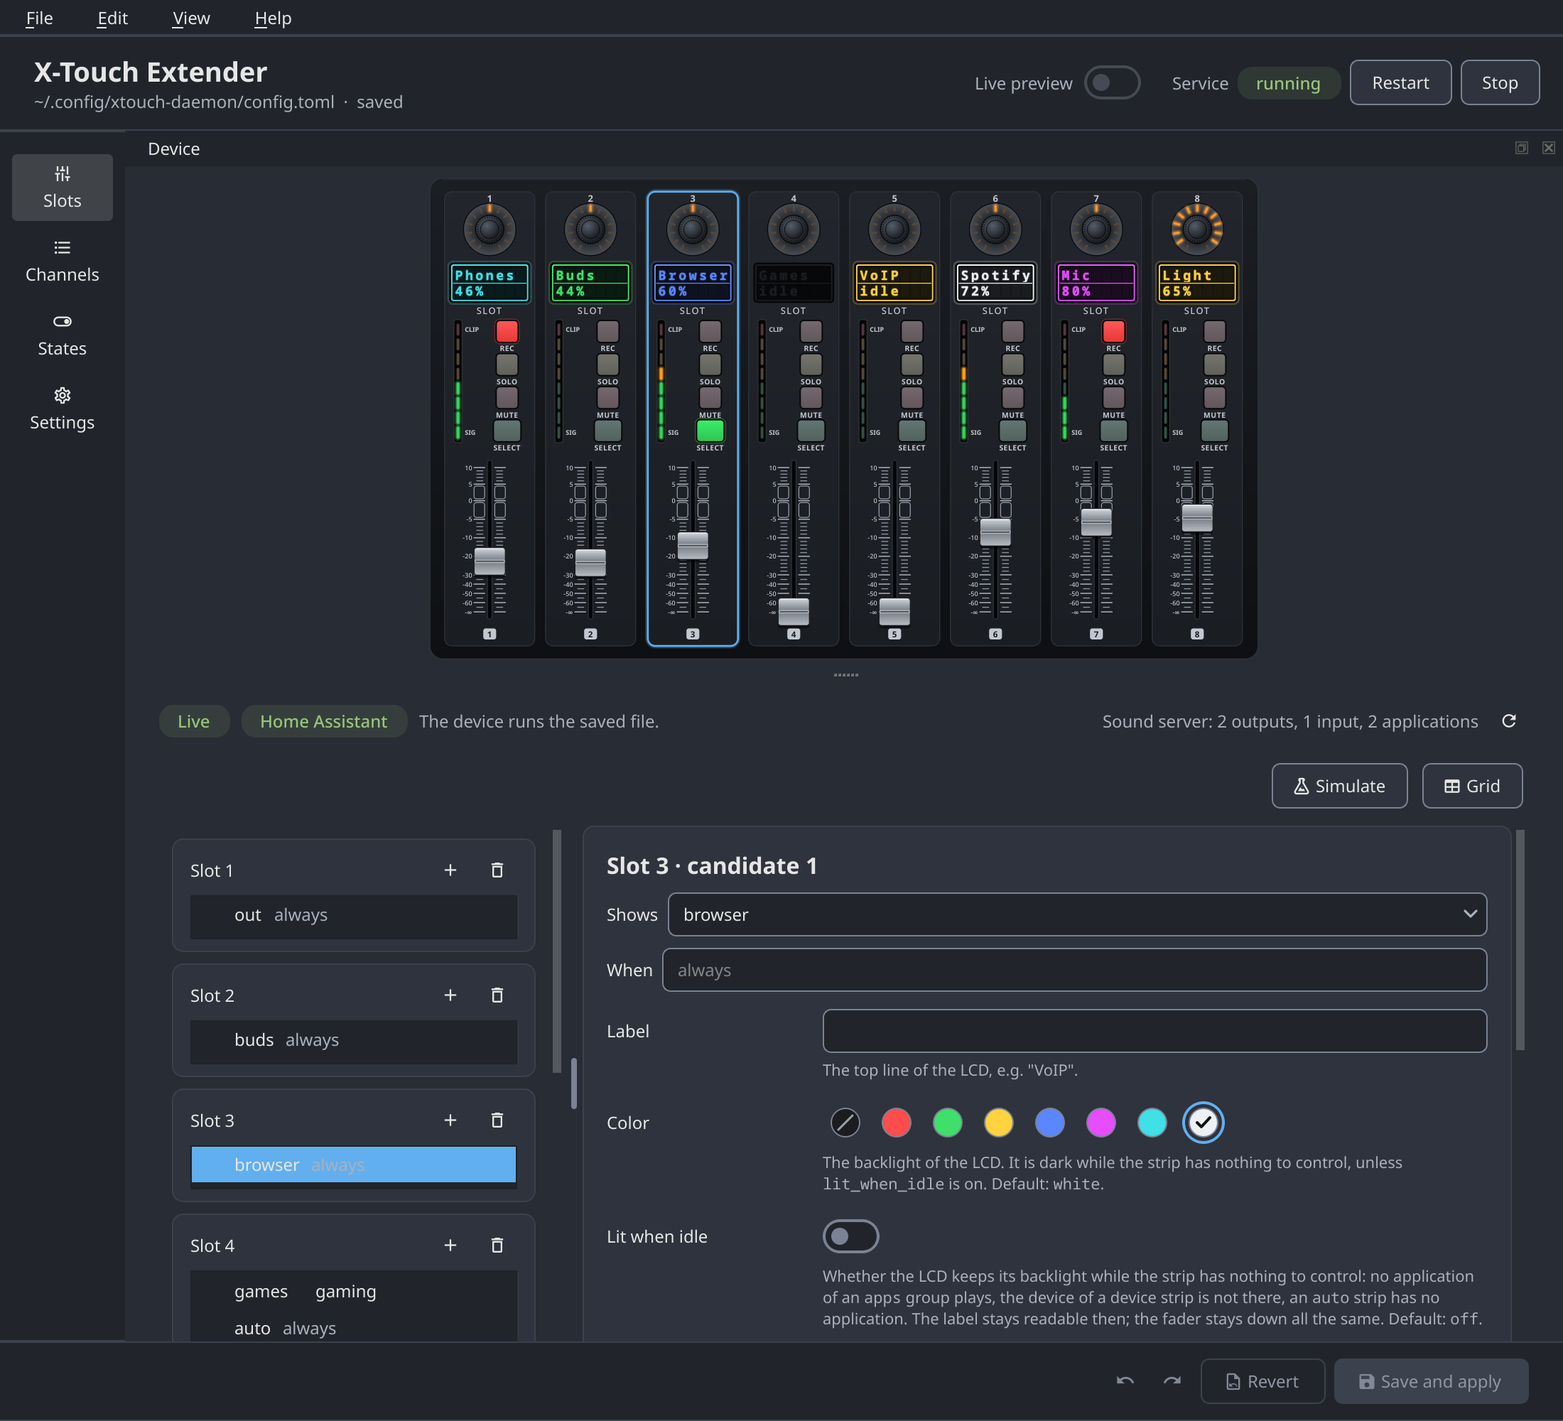
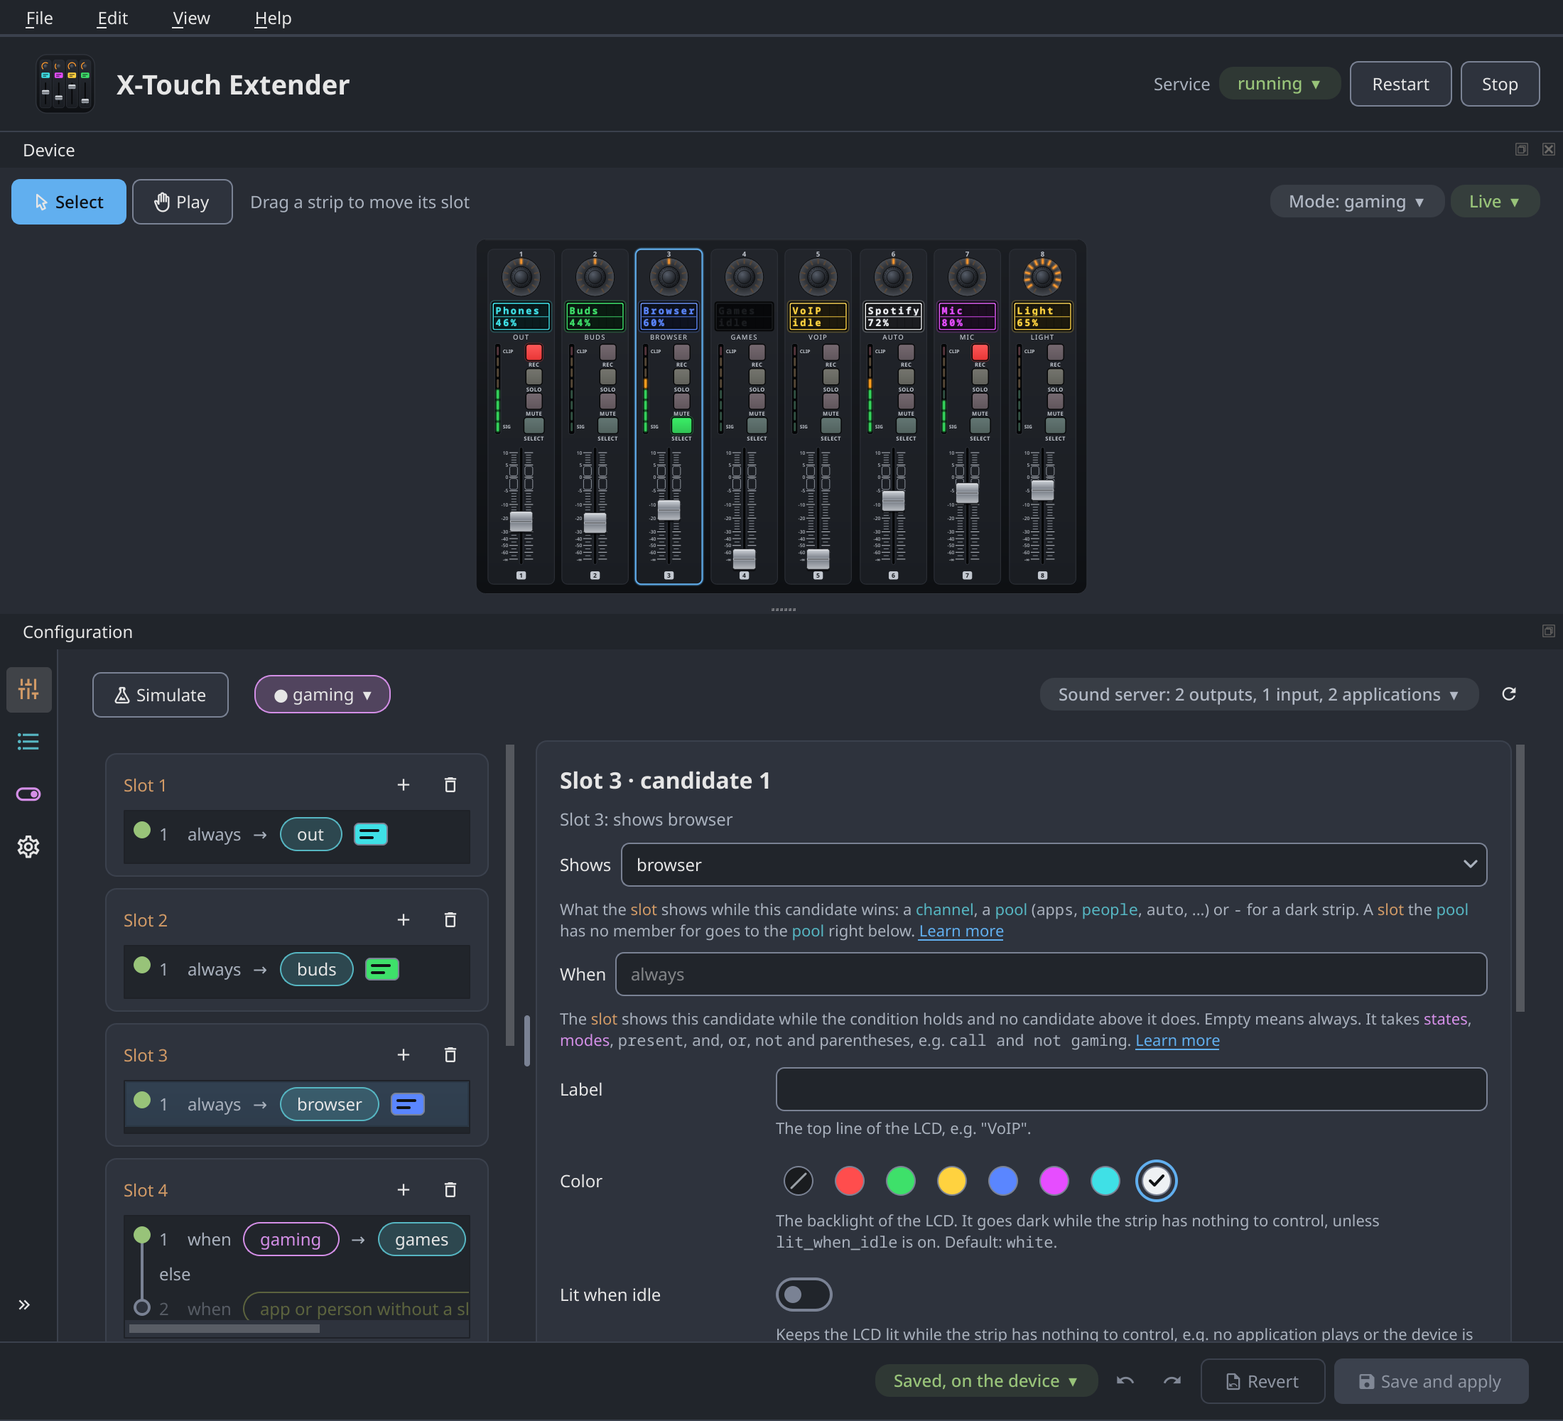
GUI: popover titles as nouns, one row above the slots; new screenshots
- Popovers are titled with what they are about (Connections, Drawing,
  Mode and states, Configuration, Sound server, the state's name) and
  don't repeat the pill that opened them: a row without a title shows
  only its text, in the color of its tone, with its buttons under it.
- Simulate, the states and the sound server share one row above the
  slots (pages hand their bar to the window); Simulate comes first.
- scripts/screenshot.py: no path label any more; the demo daemon tells its
  features, the mode and the slots, so the pictures show what a live
  window shows. docs/images rendered again.
- AGENTS.md: the new modules, just screenshot, no Qt popups, how to title
  things, and commit and push on a branch.
- codespell: "pres" (the start of "present", typed in a field) is a word.

diff --git a/src/xtouch_daemon/gui/qt/fields/popover.py b/src/xtouch_daemon/gui/qt/fields/popover.py
@@ -25,9 +25,9 @@ TEXT_WIDTH = 400
 @dataclass(frozen=True)
 class Entry:
     title: str
-    """What the row is about, e.g. "Home Assistant"."""
+    """What the row is about, e.g. "Home Assistant"; "" for none (the popover is about one thing, its heading)."""
     status: Status | None = None
-    """How it is doing, as a pill; None for none."""
+    """How it is doing, as a pill (none without a text: only the color of the bar); None for none."""
     text: str = ""
     """The explanation (the tip of the status when empty), with `code` as in the help."""
     actions: tuple[tuple[str, Callable[[], object]], ...] = ()
@@ -163,30 +163,24 @@ def _row(popup: QFrame, entry: Entry) -> QFrame:
     grid.setContentsMargins(Space.M, Space.S, Space.S, Space.S)
     grid.setHorizontalSpacing(Space.M)
     grid.setVerticalSpacing(Space.XS)
-    title = label(entry.title)
-    title.setStyleSheet("font-weight: bold;")
-    if entry.entity is not None:
-        title.setStyleSheet(f"font-weight: bold; color: {getattr(current_colors(), entry.entity.value)};")
-    grid.addWidget(title, 0, 0)
-    if entry.status is not None:
+    if entry.title:
+        title = label(entry.title)
+        title.setStyleSheet("font-weight: bold;")
+        if entry.entity is not None:
+            title.setStyleSheet(f"font-weight: bold; color: {getattr(current_colors(), entry.entity.value)};")
+        grid.addWidget(title, 0, 0)
+    if entry.status is not None and entry.status.text:
         pill = label("", "pill")
         show_status(pill, entry.status)
         pill.setToolTip("")
-        grid.addWidget(pill, 0, 1, Qt.AlignmentFlag.AlignLeft)
+        # without a title, in its place
+        grid.addWidget(pill, 0, 1 if entry.title else 0, Qt.AlignmentFlag.AlignLeft)
     grid.setColumnStretch(1, 1)
-    if entry.actions:
-        buttons = QHBoxLayout()
-        buttons.setSpacing(Space.XS)
-        for index, (text, action) in enumerate(entry.actions):
-            button = QPushButton(text)
-            button.setFocusPolicy(Qt.FocusPolicy.NoFocus)
-            if index == 0 and tone in (Tone.WARN, Tone.BAD):
-                # what fixes it
-                set_role(button, "primary", "variant")
-            button.clicked.connect(lambda _=False, action=action: (popup.close(), action()))
-            buttons.addWidget(button)
+    buttons = _buttons(popup, entry, tone)
+    titled = bool(entry.title) or (entry.status is not None and bool(entry.status.text))
+    if buttons is not None and titled:
         grid.addLayout(buttons, 0, 2, Qt.AlignmentFlag.AlignRight)
-    line = 1
+    line = 1 if titled else 0
     text = entry.text or (entry.status.tip if entry.status is not None else "")
     if text:
         explanation = label("", "hint", wrap=True)
@@ -210,7 +204,27 @@ def _row(popup: QFrame, entry: Entry) -> QFrame:
         shown.setFixedWidth(TEXT_WIDTH)
         grid.addWidget(shown, line, 0, 1, 3)
         line += 1
+    if buttons is not None and not titled:
+        # nothing above the text: the buttons go under it
+        grid.addLayout(buttons, line, 0, 1, 3, Qt.AlignmentFlag.AlignRight)
     return row
+
+
+def _buttons(popup: QFrame, entry: Entry, tone: Tone) -> QHBoxLayout | None:
+    """The buttons of `entry`, the first one of a problem standing out; None without any."""
+    if not entry.actions:
+        return None
+    buttons = QHBoxLayout()
+    buttons.setSpacing(Space.XS)
+    for index, (text, action) in enumerate(entry.actions):
+        button = QPushButton(text)
+        button.setFocusPolicy(Qt.FocusPolicy.NoFocus)
+        if index == 0 and tone in (Tone.WARN, Tone.BAD):
+            # what fixes it
+            set_role(button, "primary", "variant")
+        button.clicked.connect(lambda _=False, action=action: (popup.close(), action()))
+        buttons.addWidget(button)
+    return buttons
 
 
 def make_clickable(pill: QLabel, clicked: Callable[[], None]) -> None:

diff --git a/src/xtouch_daemon/gui/qt/window/main_window.py b/src/xtouch_daemon/gui/qt/window/main_window.py
@@ -304,9 +304,11 @@ class MainWindow(QMainWindow):
         return box
 
     def _preview_status(self) -> QHBoxLayout:
-        """What the preview shows (live or the file), the connection to Home Assistant, and the sound server."""
+        """The bar of the page shown (see `_pages`) and the sound server."""
         top = QHBoxLayout()
-        top.addStretch(1)
+        self.page_bars = QStackedWidget()
+        """The bar of each page of the rail (an empty one for a page without), switched with the page."""
+        top.addWidget(self.page_bars, 1)
         self.audio_label = label("Reading the sound server…", "pill")
         """What the GUI read from the sound server (for the suggestions); a click: all of it."""
         make_clickable(self.audio_label, self._show_audio)
@@ -357,6 +359,9 @@ class MainWindow(QMainWindow):
         self.settings.picked.connect(self.show_page)
         self.nav_buttons = self.settings.buttons
         self.stack.addWidget(self.settings)
+        for name in RAIL_PAGES:
+            self.page_bars.addWidget(slots.bar if name == "slots" else QWidget())
+        self.stack.currentChanged.connect(self.page_bars.setCurrentIndex)
         return self.stack
 
     def _bar(self, name: str, content: QWidget) -> QToolBar:
@@ -601,9 +606,10 @@ class MainWindow(QMainWindow):
         clipboard = QApplication.clipboard()
         assert clipboard is not None
         entries = [
-            Entry("The device", self.changes),
+            # the pill clicked says it already: what it means, in the color of its tone
+            Entry("Device", Status("", self.changes.tone), self.changes.tip),
             Entry(
-                "The file",
+                "File",
                 path=str(path),
                 actions=(
                     ("Copy the path", lambda: clipboard.setText(str(path))),
@@ -614,13 +620,13 @@ class MainWindow(QMainWindow):
         if self.daemon is not None and self.daemon.config != path.resolve():
             entries.append(
                 Entry(
-                    "The daemon reads",
+                    "Daemon's file",
                     Status("another file", Tone.WARN),
                     "Save and apply writes this file, which the daemon does not read.",
                     path=str(self.daemon.config),
                 )
             )
-        show_popover(self.changes_pill, "The configuration", entries)
+        show_popover(self.changes_pill, "Configuration", entries)
 
     def _show_savable(self) -> None:
         """
@@ -752,12 +758,12 @@ class MainWindow(QMainWindow):
 
     def _show_audio(self) -> None:
         """What the GUI read from the sound server, or why it couldn't, and reading it again (it stays open)."""
-        heading = "What the GUI reads from the sound server"
+        heading = "Sound server"
         again = (("Read again", self._read_audio_again),)
         if self.audio_error is not None:
             entry = Entry(
-                "Not reachable",
-                Status("no names", Tone.WARN),
+                "",
+                Status("not reachable", Tone.WARN),
                 f"{self.audio_error}\n\nThe forms suggest no names meanwhile: type them by hand.",
             )
             self._keep_audio_popover(show_popover(self.audio_label, heading, [entry], actions=again))

diff --git a/scripts/screenshot.py b/scripts/screenshot.py
@@ -5,6 +5,7 @@ it, rendered offscreen. Nothing of the machine is used: no daemon, device, sound
     uv run --extra gui python scripts/screenshot.py [OUT_DIR]
 """
 
+import dataclasses
 import os
 import sys
 import tempfile
@@ -104,12 +105,21 @@ def shoot(home: Path, out: Path) -> None:
     from PyQt6.QtWidgets import QApplication
 
     from xtouch_daemon.audio.model import AudioState, Card, Device, Direction, Profile, Stream
+    from xtouch_daemon.gui.domain.simulate import WhatIf, simulated
     from xtouch_daemon.gui.domain.slots_document import SlotsDocument
     from xtouch_daemon.gui.qt.theme.style import apply_theme
     from xtouch_daemon.gui.qt.theme.tokens import ThemeMode
     from xtouch_daemon.gui.qt.window.main_window import MainWindow
     from xtouch_daemon.live.codec import encode
-    from xtouch_daemon.live.messages import MqttState, Snapshot, StripState, fingerprint
+    from xtouch_daemon.live.messages import (
+        FEATURES,
+        MqttState,
+        SlotsState,
+        Snapshot,
+        StateView,
+        StripState,
+        fingerprint,
+    )
     from xtouch_daemon.system.instance import Instance
     from xtouch_daemon.system.systemd import Service
 
@@ -183,7 +193,23 @@ def shoot(home: Path, out: Path) -> None:
     saved = document.saved_config
     assert saved is not None
     mqtt = MqttState("homeassistant.local:1883", "xtouch", connected=True, ready=True, error=None, entities=6)
-    snapshot = Snapshot(fingerprint(saved), True, sound_server=True, mqtt=True, strips=strips, mqtt_state=mqtt)
+    # gaming is on (strip 4 shows the games, none of which plays), as the rules found it; Spotify plays on `auto`
+    resolved = simulated(saved.slots, WhatIf(mode="gaming", apps=1))
+    views = tuple(
+        dataclasses.replace(view, member="app:Spotify") if view.member is not None else view for view in resolved.slots
+    )
+    gaming = StateView("gaming", True, True, None, "a Steam game runs", "auto")
+    slots = SlotsState(mode="gaming", mode_pick=None, slots=views, states=(gaming,), waiting={})
+    snapshot = Snapshot(
+        fingerprint(saved),
+        True,
+        sound_server=True,
+        mqtt=True,
+        strips=strips,
+        mqtt_state=mqtt,
+        features=FEATURES,
+        slots=slots,
+    )
 
     socket = home / "runtime" / "live.sock"
     server = QLocalServer()
@@ -210,8 +236,7 @@ def shoot(home: Path, out: Path) -> None:
     wait(app, lambda: window.live.snapshot is not None and window.audio_label.text() != "Reading the sound server…")
     window.device_view.select(SELECTED)
     settle(app)
-    # the file as it is on a machine of a user, not in the temporary directory
-    window.path_label.setText(window.path_label.text().replace(str(path), "~/.config/xtouch-daemon/config.toml"))
+    # the path of the file (in the temporary directory) is in the title of the window, which a grab doesn't show
 
     out.mkdir(parents=True, exist_ok=True)
     save(window.grab(), out / "gui.png")

diff --git a/src/xtouch_daemon/gui/qt/pages/slots.py b/src/xtouch_daemon/gui/qt/pages/slots.py
@@ -137,8 +137,11 @@ class SlotsPanel(Page):
             "(Esc ends it)"
         )
         self.simulate_button.clicked.connect(lambda checked: self.simulate(WhatIf() if checked else None))
-        top.addWidget(self.simulate_button)
-        self.layout_.addWidget(row(top))
+        # first: it stays where it is while the what-ifs take the place of the states
+        top.insertWidget(0, self.simulate_button)
+        top.insertSpacing(1, Space.S)
+        self.bar = row(top)
+        """Simulate and the states, or the what-ifs: in the row of the window above the page (see `MainWindow`)."""
         self.state_buttons: dict[str, QToolButton] = {}
         cards = QWidget()
         self.cards = QVBoxLayout(cards)
@@ -614,12 +617,12 @@ class SlotsPanel(Page):
         state = next((state for state in slots.states if state.name == name), None) if slots is not None else None
         anchor = self.state_buttons[name]
         if slots is None or state is None:
-            unknown = Entry(name, text="The daemon doesn't tell this state yet.", entity=Entity.STATE)
-            show_popover(anchor, "The state", [unknown])
+            unknown = Entry("", text="The daemon doesn't tell this state yet.")
+            show_popover(anchor, name, [unknown])
             return
         value = Status("on", Tone.GOOD) if state.value else Status("off", Tone.NEUTRAL)
         why = state.source or "none of its sources is on"
-        entries = [Entry(name, value, f"{why[:1].upper()}{why[1:]}.", entity=Entity.STATE)]
+        entries = [Entry("", value, f"{why[:1].upper()}{why[1:]}.")]
         if state.mode:
             picked = slots.mode_pick == name
             override = Status("picked by hand", Tone.WARN) if picked else Status("by the rules", Tone.NEUTRAL)
@@ -654,7 +657,7 @@ class SlotsPanel(Page):
                 actions=((simulate, lambda: self.simulate(what_if)),),
             )
         )
-        show_popover(anchor, "The state", entries)
+        show_popover(anchor, name, entries)
 
     def override(self, name: str, value: str) -> None:
         """Asks the daemon to override a state, or to pick a mode (`auto`: the rules decide again)."""

diff --git a/src/xtouch_daemon/gui/qt/window/device_view.py b/src/xtouch_daemon/gui/qt/window/device_view.py
@@ -142,9 +142,10 @@ class DeviceView(QWidget):
         if self.live_status is None:
             return
         actions = (("Open the virtual device", self.live_clicked.emit),) if self.offered else ()
-        show_popover(
-            self.live_pill, "What the drawing shows", [Entry("The drawing", self.live_status, actions=actions)]
-        )
+        status = self.live_status
+        # the pill clicked says the status already: only what it means, in the color of its tone
+        entry = Entry("", Status("", status.tone), status.tip, actions)
+        show_popover(self.live_pill, "Drawing", [entry])
 
     def _show_modes(self) -> None:
         """The mode, the modes to pick (or back to the rules) and the states, with what turned them on."""
@@ -170,7 +171,7 @@ class DeviceView(QWidget):
             why = why[:1].upper() + why[1:]
             override = "" if state.override == "auto" else f" Overridden: {state.override}."
             entries.append(Entry(state.name, value, f"{why}.{override}", entity=Entity.STATE))
-        show_popover(self.slots_pill, "The mode and the states", entries)
+        show_popover(self.slots_pill, "Mode and states", entries)
 
     def show_daemon(self, runs: bool) -> None:
         """Whether a daemon runs: without one (and nothing hosted), "Try without a device"."""

diff --git a/src/xtouch_daemon/gui/qt/window/service.py b/src/xtouch_daemon/gui/qt/window/service.py
@@ -151,7 +151,7 @@ class ServiceControls(QWidget):
             return
         show_popover(
             self.pill,
-            "What the daemon is connected to",
+            "Connections",
             [
                 Entry(
                     connection.name,

diff --git a/AGENTS.md b/AGENTS.md
@@ -11,9 +11,9 @@ uv, src layout. Start with [docs/architecture.md](docs/architecture.md).
 | `src/xtouch_daemon/audio/` | `AudioState` model, `AudioBackend` protocol, `PulseBackend`, `pw-record` meters, MPRIS media players. |
 | `src/xtouch_daemon/config/`, `config.example.toml` | pydantic configuration, split by topic (`files`, `model`, `sections`, `layout`, strip types, `inheritance`, `values`, `names`), and the example file. `config/presets.py` has the presets (`@browsers`, ...); `docs/configuration/presets.md` has their table, kept in line by a test. |
 | `src/xtouch_daemon/strips/` | Strip controllers (`output`/`input`, `apps`, `auto`, `homeassistant`, `empty`, `voip`). |
-| `src/xtouch_daemon/slots/` | Prototype of `docs/design/channels-states-slots.md` (channels, pools, states, slots and their resolver), pure and not used by the daemon yet; `xtouch-daemon simulate` and `observe` drive it. |
+| `src/xtouch_daemon/slots/` | Channels, pools, states, slots and their resolver (`docs/design/channels-states-slots.md`), pure: `runtime/slots` runs it on the device, the GUI's Simulate and `xtouch-daemon simulate` and `observe` drive it too. |
 | `src/xtouch_daemon/mqtt.py` | `MqttBridge`: the MQTT connection for Home Assistant (discovery, retained states, availability). |
-| `src/xtouch_daemon/runtime/` | The running daemon: lifecycle (`daemon`: signals, reload, shutdown, sd_notify), `mixer` (feeds states and events to the controllers), `placement` (strips that collapse), `layouts` (switching and rules), `slots` (the prototype of channels, states and slots on the device). |
+| `src/xtouch_daemon/runtime/` | The running daemon: lifecycle (`daemon`: signals, reload, shutdown, sd_notify), `mixer` (feeds states and events to the controllers), `placement` (strips that collapse), `layouts` (switching and rules), `slots` (channels, states and slots on the device), `slot_files` (what they keep across restarts). |
 | `src/xtouch_daemon/system/` | The system around it: `instance` (runtime file), `systemd` (incl. controlling the user service), `processes` (`/proc`), `launch` (starting a strip's `launch` detached from the daemon; tests use `FakeLauncher`, `conftest.no_launches` makes a real start fail). |
 | `src/xtouch_daemon/live/` | The live view of the device for the GUI over a Unix socket: `messages`, `codec`, `server`. |
 | `src/xtouch_daemon/cli/` | The CLI, one module per topic; `cli/__init__.py` puts the commands together. |
@@ -33,6 +33,7 @@ just lint            # ruff check + ruff format --check + codespell
 just typecheck       # pyright
 just check           # all of the above, like CI
 just docs            # builds the documentation site (strict: broken links fail)
+just screenshot      # renders docs/images/ (README and docs) offscreen from scripts/screenshot.py: after changes to the look of the GUI
 ```
 
 ## Rules
@@ -55,7 +56,10 @@ just docs            # builds the documentation site (strict: broken links fail)
   `conftest.no_host` fails a test that touches the processes, sound devices, the user's files, the session bus or the
   runtime directory of the machine; a test that does so on purpose is marked `host`.
 - Type hints everywhere; `ruff` and `pyright` must pass.
-- Git: commit, but never push. The user pushes.
+- GUI: never use `Qt.WindowType.Popup` (or `QMenu` for more than a menu): a popup grabs the keyboard and the mouse,
+  on X11 the whole display, so screenshot tools and the keys of the window manager stop working. Details a click away
+  are popovers (`gui/qt/fields/popover.py`), drawn inside the window.
+- Git: on a branch, commit and push the finished, checked work; on `main` only when the user asks. Never force-push.
 
 ## Writing help
 
@@ -78,3 +82,5 @@ Technical English):
 - The same word for the same thing, the words of the GUI: state, mode, channel, pool, slot, strip, candidate.
   The GUI colors them (and their sections in `code`, e.g. `[state.gaming]`), so write them out.
 - Options, values, commands and sections in backticks.
+- Headings and titles (popovers, their rows, pages, docks) are short noun phrases in sentence case: "Connections",
+  "Mode and states", "File"; no "The ...", no "What ...". A pill's popover doesn't repeat the pill: it explains it.

diff --git a/CHANGELOG.md b/CHANGELOG.md
@@ -178,6 +178,12 @@ The format is based on [Keep a Changelog](https://keepachangelog.com/en/1.1.0/),
   (marked as real: the device and Home Assistant follow it) and "Simulate it off/on" from the situation there is.
 - What the GUI read from the sound server is a pill: a click lists the outputs, inputs and applications, or why it
   couldn't, with "Read again" (the popover stays open and shows what it read).
+- Popovers are titled with what they are about ("Connections", "Mode and states", "Sound server") and don't repeat
+  the pill that opened them.
+- Simulate, the states and the sound server share one row above the slots; Simulate comes first and stays where it
+  is while the what-ifs replace the states.
+- Dragging the handle between the panes of a page no longer lags: where it was left is written once, when it is let
+  go, not on every move.
 - An icon: four strips of the device (encoders, LCDs, faders), in the README, the documentation and the GUI's header
   and window, and of the desktop file of `xtouch-daemon-gui-bin`.
 - The documentation has a version per release (and `dev` for main) with a version selector, built once per version
